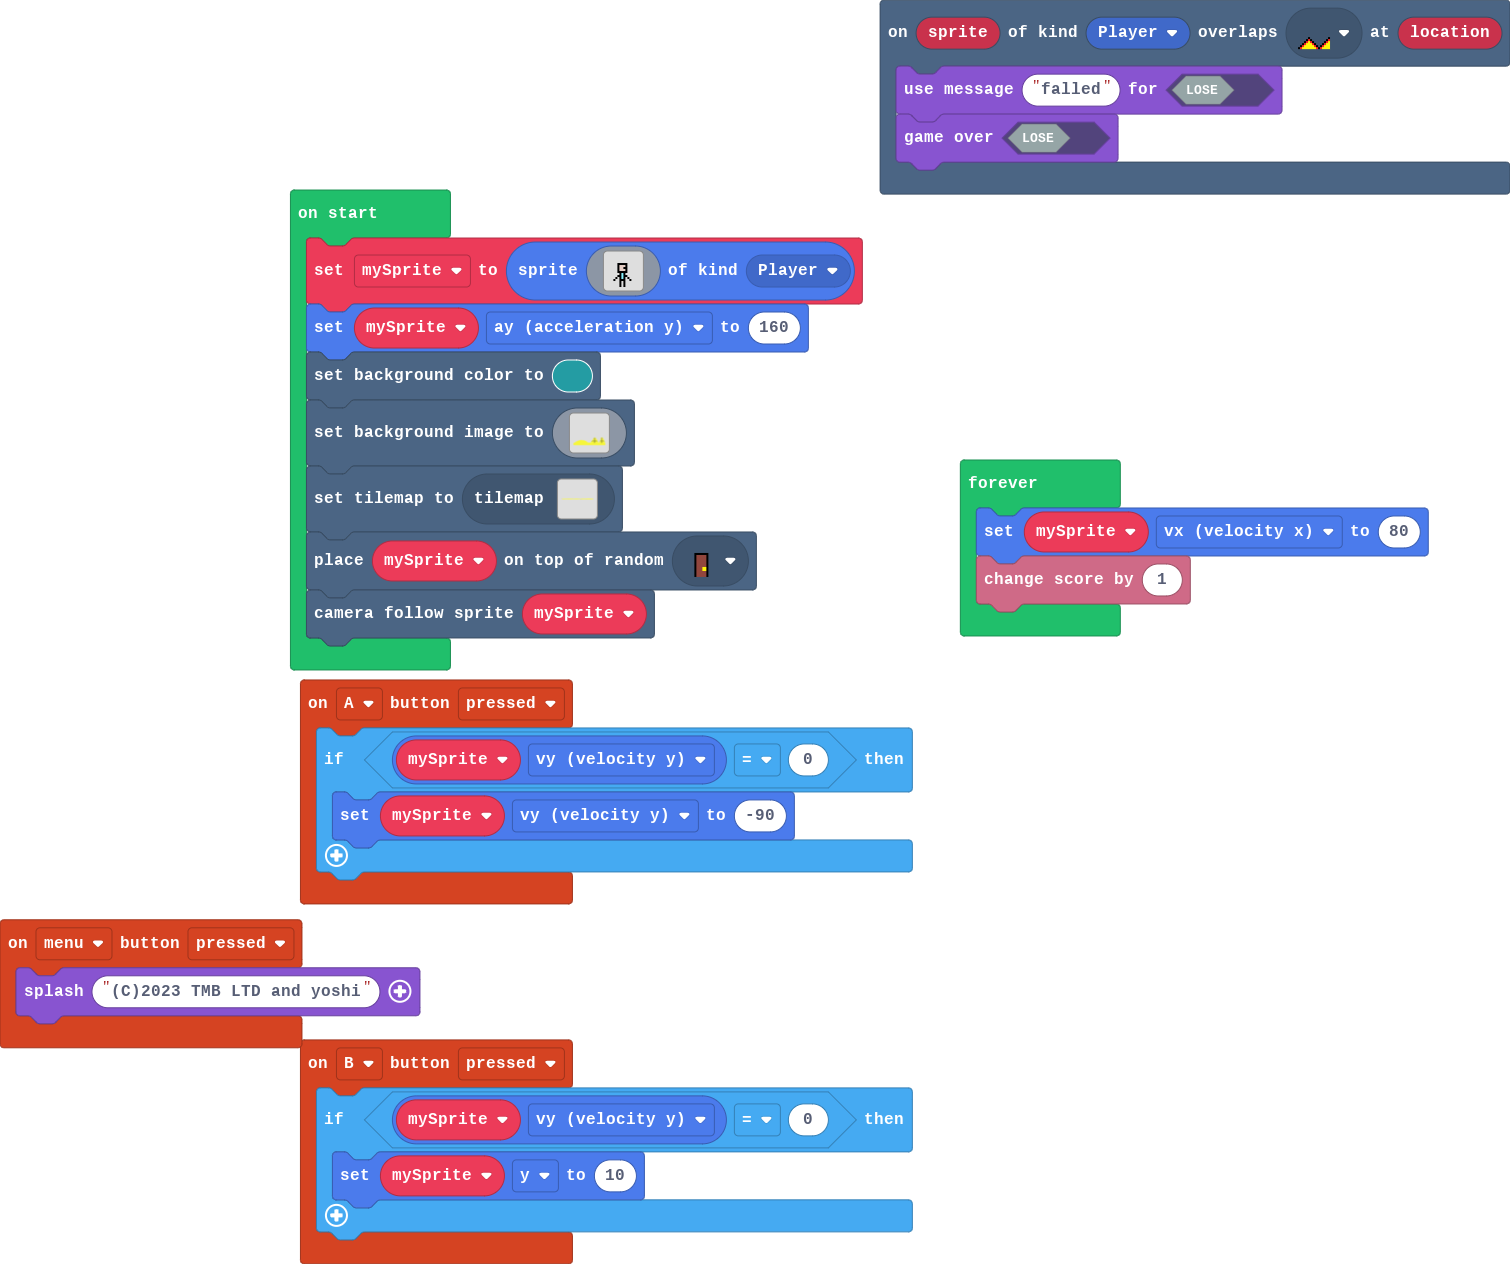
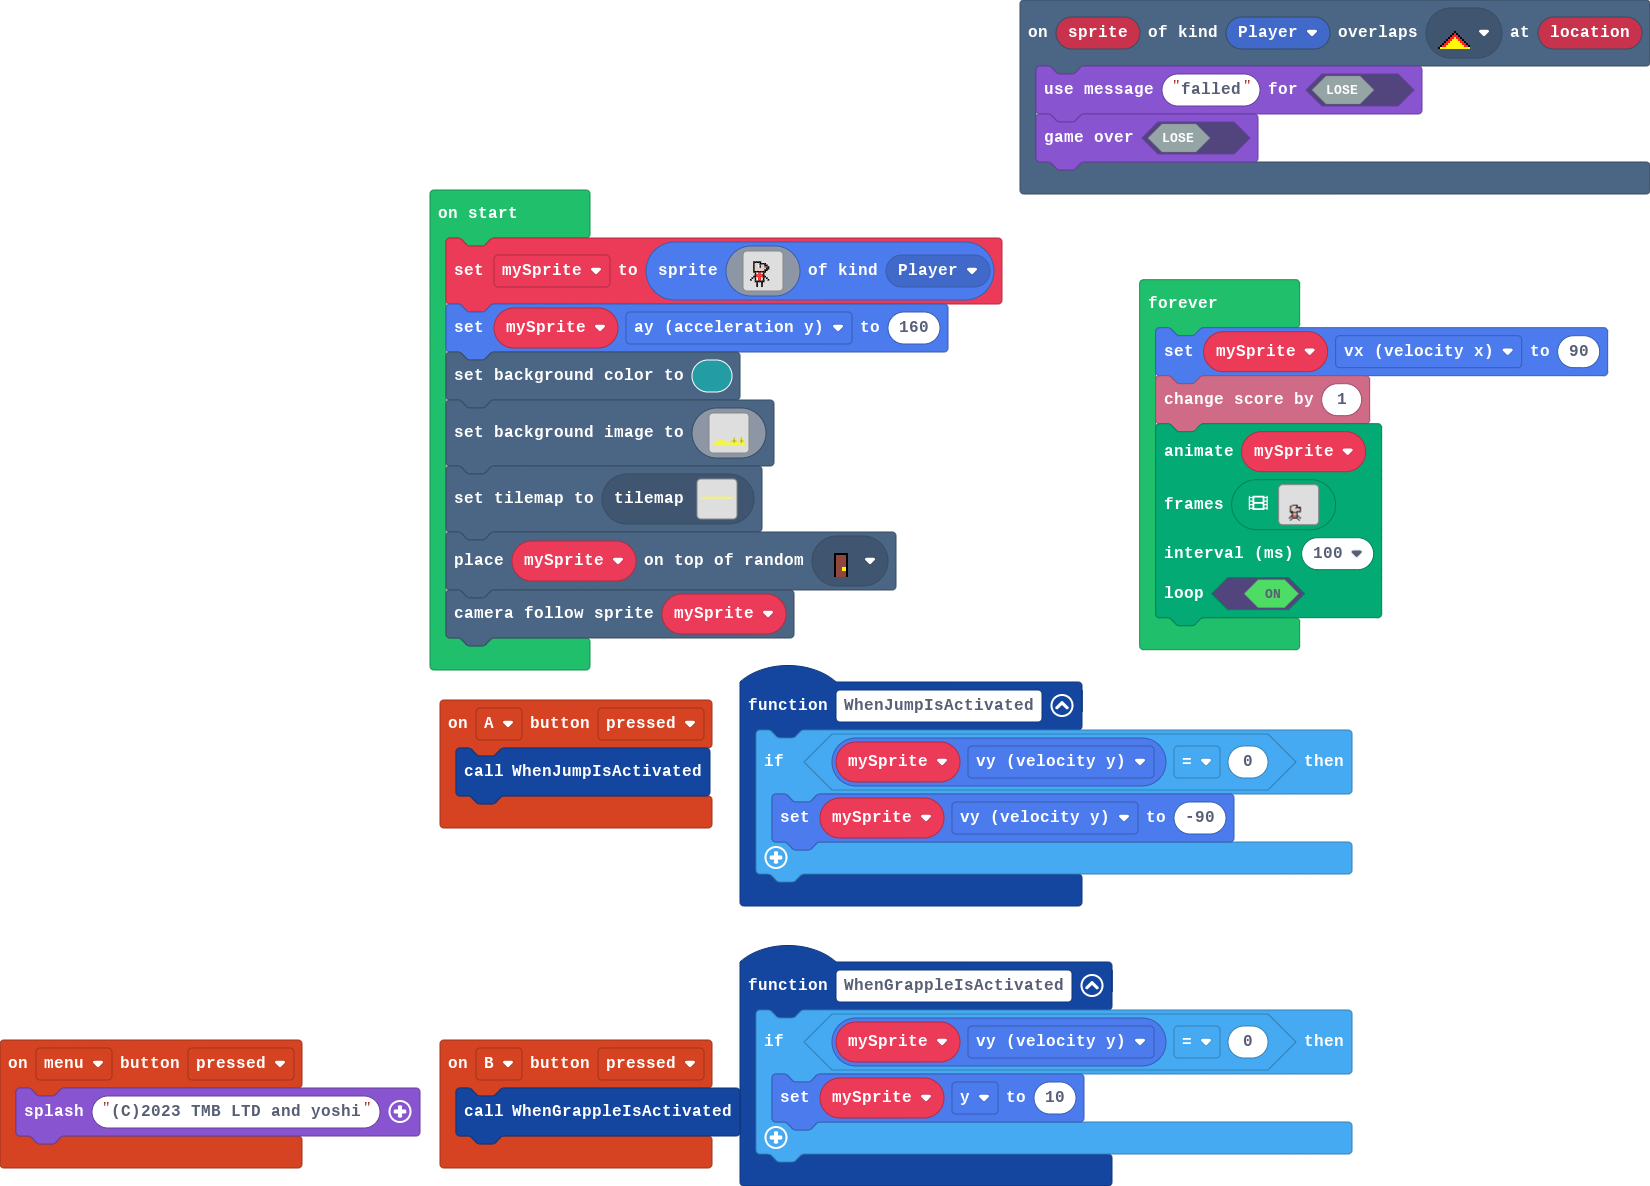
Beta (Please dont access it if you are not BeegYoshi)

diff --git a/tilemap.g.ts b/tilemap.g.ts
@@ -13,19 +13,6 @@ namespace myTiles {
 
     helpers._registerFactory("tilemap", function(name: string) {
         switch(helpers.stringTrim(name)) {
-            case "level1":
[1 lines of base64/hex data omitted]
-...............................................................................................................................................................................................................................................................
-...............................................................................................................................................................................................................................................................
-...............................................................................................................................................................................................................................................................
-...............................................................................................................................................................................................................................................................
-......................................................222.................................................................................................................................................2222222222222222.....................................
-.................................................2222.222.............222222.....................................222222222..........2222............................22222222...............222222........222222222222222222222222222222222.....................
-........2222222..22222222222..22222222222.......22222.2222222222222222222222222........2222....222..........2222222222222222222222..22222........................22222222222222222222222222222222.222222.2222222222222222222222222222222222222222222222...22222
-.......22222222..22222222222..22222222222....22222222.22222222222222222222222222222222222222.2222222....222.22222222222222222222222222222........22222222222...2222222222222222222222222222222222.222222.222222222222222222222222222222222222222222222222222222
-......222222222..22222222222..22222222222222222222222.222222222222222222222222222222222222222222222222222222222222222222222222222222222222222222.22222222222...2222222222222222222222222222222222.222222.222222222222222222222222222222222222222222222222222222
-222222222222222..22222222222..22222222222222222222222.222222222222222222222222222222222222222222222222222222222222222222222222222222222222222222.22222222222...2222222222222222222222222222222222.222222.222222222222222222222222222222222222222222222222222222
-`, [myTiles.transparency16,myTiles.tile2,myTiles.tile3,myTiles.tile4], TileScale.Sixteen);
             case "level2":
             case "level2":return tiles.createTilemap(hex`1000100000000000000000000000000000000000000000000000000000000000000000000000000000000000000000000000000000000000000000000000000000000000000000000000000000000000000000000000000000000000000000000000000000000000000000000000000000000000000000000000000000000000000000000000000000000000000000000000000000000000000000000000000000000000000000000000000000000000000000000000000000000000000000000000000000000000000000000000000000000000000000000000000000000000000000000000000000000000000000000000000000000000000000000000000000000000`, img`
 . . . . . . . . . . . . . . . . 
@@ -45,6 +32,38 @@ namespace myTiles {
 . . . . . . . . . . . . . . . . 
 . . . . . . . . . . . . . . . . 
 `, [myTiles.transparency16], TileScale.Sixteen);
+            case "level1":
[1 lines of base64/hex data omitted]
+...............................................................................................................................................................................................................................................................
+...............................................................................................................................................................................................................................................................
+...............................................................................................................................................................................................................................................................
+...............................................................................................................................................................................................................................................................
+......................................................222.................................................................................................................................................2222222222222222.....................................
+.................................................2222.222.............222222.....................................222222222..........2222............................22222222...............222222........222222222222222222222222222222222.....................
+........2222222..22222222222..22222222222.......22222.2222222222222222222222222........2222....222..........2222222222222222222222..22222........................22222222222222222222222222222222.222222.2222222222222222222222222222222222222222222222...22222
+.......22222222..22222222222..22222222222....22222222.22222222222222222222222222222222222222.2222222....222.22222222222222222222222222222........22222222222...2222222222222222222222222222222222.222222.222222222222222222222222222222222222222222222222222222
+......222222222..22222222222..22222222222222222222222.222222222222222222222222222222222222222222222222222222222222222222222222222222222222222222.22222222222...2222222222222222222222222222222222.222222.222222222222222222222222222222222222222222222222222222
+222222222222222..22222222222..22222222222222222222222.222222222222222222222222222222222222222222222222222222222222222222222222222222222222222222.22222222222...2222222222222222222222222222222222.222222.222222222222222222222222222222222222222222222222222222
+`, [myTiles.transparency16,myTiles.tile2,myTiles.tile3,myTiles.tile4], TileScale.Sixteen);
+            case "level":
[1 lines of base64/hex data omitted]
+222222222222222222222222222222222222222222222222222222222222222222222222222222222222222222222222222222222222222222222222222222222222222222222222222222222222222222222222222222222222222222222222222222222222222222222222222222222222222222222222222222222222222
+2222222...22222222222222222222222222222222222222222222222222222222222222222222222222222222222222222222222222222222222222222222222222222222222222222222222222222222222222222222222222222222222222222222222222222222222222222222222222222222222222222222222222222
+....................22222222222222222222..222222222222222222222222222222222222222222222222222222222222222222222222222222222222222222222222222222222222222222222222222222222222222222222222222222222222222222222222222222222222222222222222222222222222222222222
+..........................................222222222222222222222222222222222222222222222222222222222222222222222222222222222222222222222222222222222222222222222222222222222222222222222222222222222222222222222222222222222222222222222222222222222222222222222
+...............................................................................................222222222222...........2222222222222222.................222222222222222222222222............22222222222222..........22222222222222222222222222222222222222222222
+......................................................................................................................................................................................................................................222222222222....222222222
+...............................................................................................................................................................................................................................................................
+...............................................................................................................................................................................................................................................................
+................................................................................................................................................................................................................2222...........................................
+...............................22222222222222222222222222222222222222222222....22222...222222222222222...22222222222222222222222222222....2222222222222222222222222222222222222222222222.......................................................................
+.....................222222....22222222222222222222222222222222222222222222222222222222222222222222222...22222222222222222222222222222....222222222222222222222222222222222222222222222222222222222222222222222222222222222222222222222222222222222222222222222
+222222222222222222222222222222222222222222222222222222222222222222222222222222222222222222222222222222...22222222222222222222222222222....222222222222222222222222222222222222222222222222222222222222222222222222222222222222222222222222222222222222222222222
+222222222222222222222222222222222222222222222222222222222222222222222222222222222222222222222222222222...22222222222222222222222222222....222222222222222222222222222222222222222222222222222222222222222222222222222222222222222222222222222222222222222222222
+222222222222222222222222222222222222222222222222222222222222222222222222222222222222222222222222222222...22222222222222222222222222222....222222222222222222222222222222222222222222222222222222222222222222222222222222222222222222222222222222222222222222222
+222222222222222222222222222222222222222222222222222222222222222222222222222222222222222222222222222222...22222222222222222222222222222....222222222222222222222222222222222222222222222222222222222222222222222222222222222222222222222222222222222222222222222
+222222222222222222222222222222222222222222222222222222222222222222222222222222222222222222222222222222...22222222222222222222222222222....222222222222222222222222222222222222222222222222222222222222222222222222222222222222222222222222222222222222222222222
+`, [myTiles.transparency16,myTiles.tile2,myTiles.tile3,myTiles.tile4], TileScale.Sixteen);
         }
         return null;
     })
@@ -58,7 +77,7 @@ namespace myTiles {
             case "tile2":return tile2;
             case "myTile1":
             case "tile3":return tile3;
-            case "myTile2":
+            case "Fire":
             case "tile4":return tile4;
         }
         return null;

diff --git a/images.g.ts b/images.g.ts
@@ -22,13 +22,99 @@ namespace myImages {
 . . . . . . . . . . . . . . . . 
 . . . . . . . . . . . . . . . . 
 `;
+            case "image2":
+            case "myImage0":return img`
+................
+................
+................
+................
+..fffff.........
+..fdddffff......
+..fdd18ddff.....
+..fdd1fddeef....
+..fdddddddff....
+..fddddddff.....
+..ffffffff......
+...f1221f.......
+...f2222f.......
+..ff2222ff......
+.f.f1221f.f.....
+f..f1221f..f....
+...ffffff.......
+....f..f........
+....f..f........
+....f..f........
+`;
         }
         return null;
     })
 
     helpers._registerFactory("animation", function(name: string) {
         switch(helpers.stringTrim(name)) {
-
+            case "myAnim":
+            case "anim1":return [img`
+..............................
+..............................
+..............................
+..............................
+..............................
+..............................
+..............................
+..............................
+..............................
+..............................
+..............................
+..............................
+..............................
+..............................
+..............................
+.........fffff................
+.......ffdd11f................
+.......fddd18ffff.............
+.......fddd1fdeef.............
+.......fddddddddf.............
+.......fddddddddf.............
+.......fffdddffff.............
+........ffffff................
+.........f111f................
+.........f121f................
+........ff222ff...............
+.......f.f121f.f..............
+......f..fffff..f.............
+........f.....f...............
+.......f.......f..............
+`, img`
+..............................
+..............................
+..............................
+..............................
+..............................
+..............................
+..............................
+..............................
+..............................
+..............................
+..............................
+..............................
+..............................
+..............................
+..............................
+.........fffff................
+.......ffdd11f................
+.......fddd18ffff.............
+.......fddd1fdeef.............
+.......fddddddddf.............
+.......fddddddddf.............
+.......fffdddffff.............
+........ffffff................
+.........f111f................
+.........f121f................
+........ff222ff...............
+.......f.f121f.f..............
+......f..fffff..f.............
+.........f...f................
+.........f...f................
+`];
         }
         return null;
     })

diff --git a/main.ts b/main.ts
@@ -1,14 +1,20 @@
 controller.B.onEvent(ControllerButtonEvent.Pressed, function () {
+    WhenGrappleIsActivated()
+})
+controller.A.onEvent(ControllerButtonEvent.Pressed, function () {
+    WhenJumpIsActivated()
+})
+function WhenGrappleIsActivated () {
     if (mySprite.vy == 0) {
         mySprite.y = 10
     }
-})
-controller.A.onEvent(ControllerButtonEvent.Pressed, function () {
+}
+function WhenJumpIsActivated () {
     if (mySprite.vy == 0) {
         mySprite.vy = -90
     }
-})
-scene.onOverlapTile(SpriteKind.Player, assets.tile`myTile2`, function (sprite, location) {
+}
+scene.onOverlapTile(SpriteKind.Player, assets.tile`Fire`, function (sprite, location) {
     game.setGameOverMessage(false, "falled")
     game.gameOver(false)
 })
@@ -16,24 +22,7 @@ controller.menu.onEvent(ControllerButtonEvent.Pressed, function () {
     game.splash("(C)2023 TMB LTD and yoshi")
 })
 let mySprite: Sprite = null
-mySprite = sprites.create(img`
-    . . . . . . . . . . . . . . . . 
-    . . . . . . . . . . . . . . . . 
-    . . . . . . . . . . . . . . . . 
-    . . . . . . . . . . . . . . . . 
-    . . . . . f f f f f . . . . . . 
-    . . . . . f d d d f . . . . . . 
-    . . . . . f d d f f . . . . . . 
-    . . . . . f d d d f . . . . . . 
-    . . . . . f f f f f . . . . . . 
-    . . . . . . f 9 f . . . . . . . 
-    . . . . . f f 9 f f . . . . . . 
-    . . . . f . f 9 f . f . . . . . 
-    . . . f . . f f f . . f . . . . 
-    . . . . . . f . f . . . . . . . 
-    . . . . . . f . f . . . . . . . 
-    . . . . . . f . f . . . . . . . 
-    `, SpriteKind.Player)
+mySprite = sprites.create(assets.image`myImage0`, SpriteKind.Player)
 mySprite.ay = 160
 scene.setBackgroundColor(6)
 scene.setBackgroundImage(img`
@@ -158,10 +147,16 @@ scene.setBackgroundImage(img`
     5555555555555555555555555555555555555555555555555555555555555555555555555555555555555555555555555555555555555555555555555555555555555555555555555555555555555555
     5555555555555555555555555555555555555555555555555555555555555555555555555555555555555555555555555555555555555555555555555555555555555555555555555555555555555555
     `)
-tiles.setCurrentTilemap(tilemap`level1`)
+tiles.setCurrentTilemap(tilemap`level`)
 tiles.placeOnRandomTile(mySprite, assets.tile`myTile1`)
 scene.cameraFollowSprite(mySprite)
 forever(function () {
-    mySprite.vx = 80
+    mySprite.vx = 90
     info.changeScoreBy(1)
+    animation.runImageAnimation(
+    mySprite,
+    assets.animation`myAnim`,
+    100,
+    true
+    )
 })
